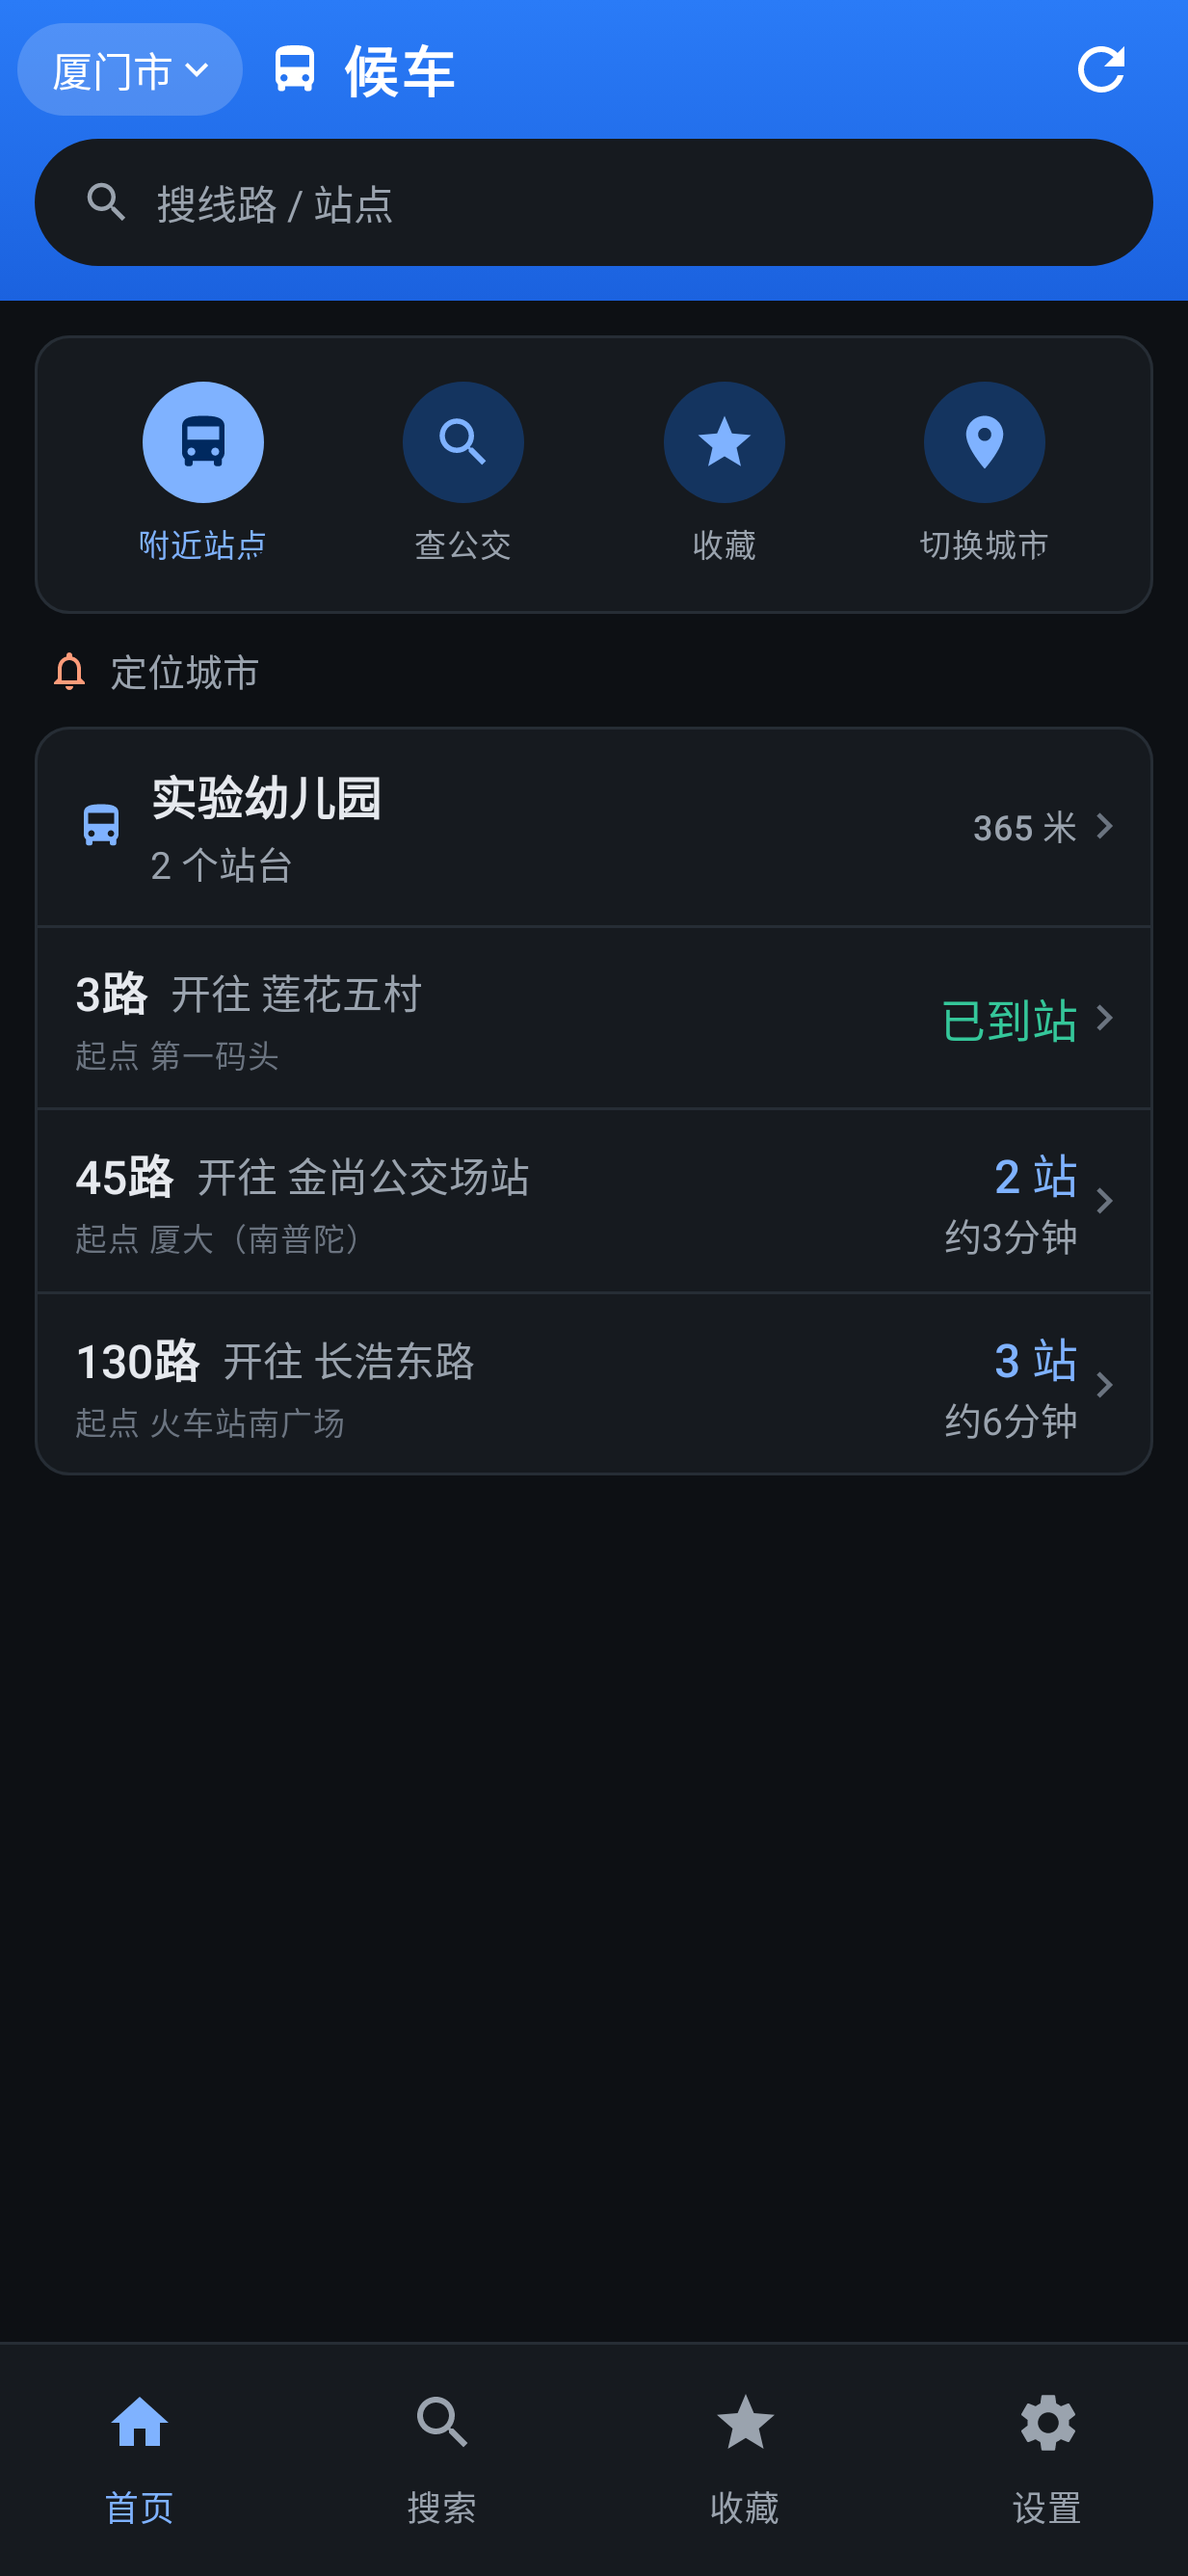
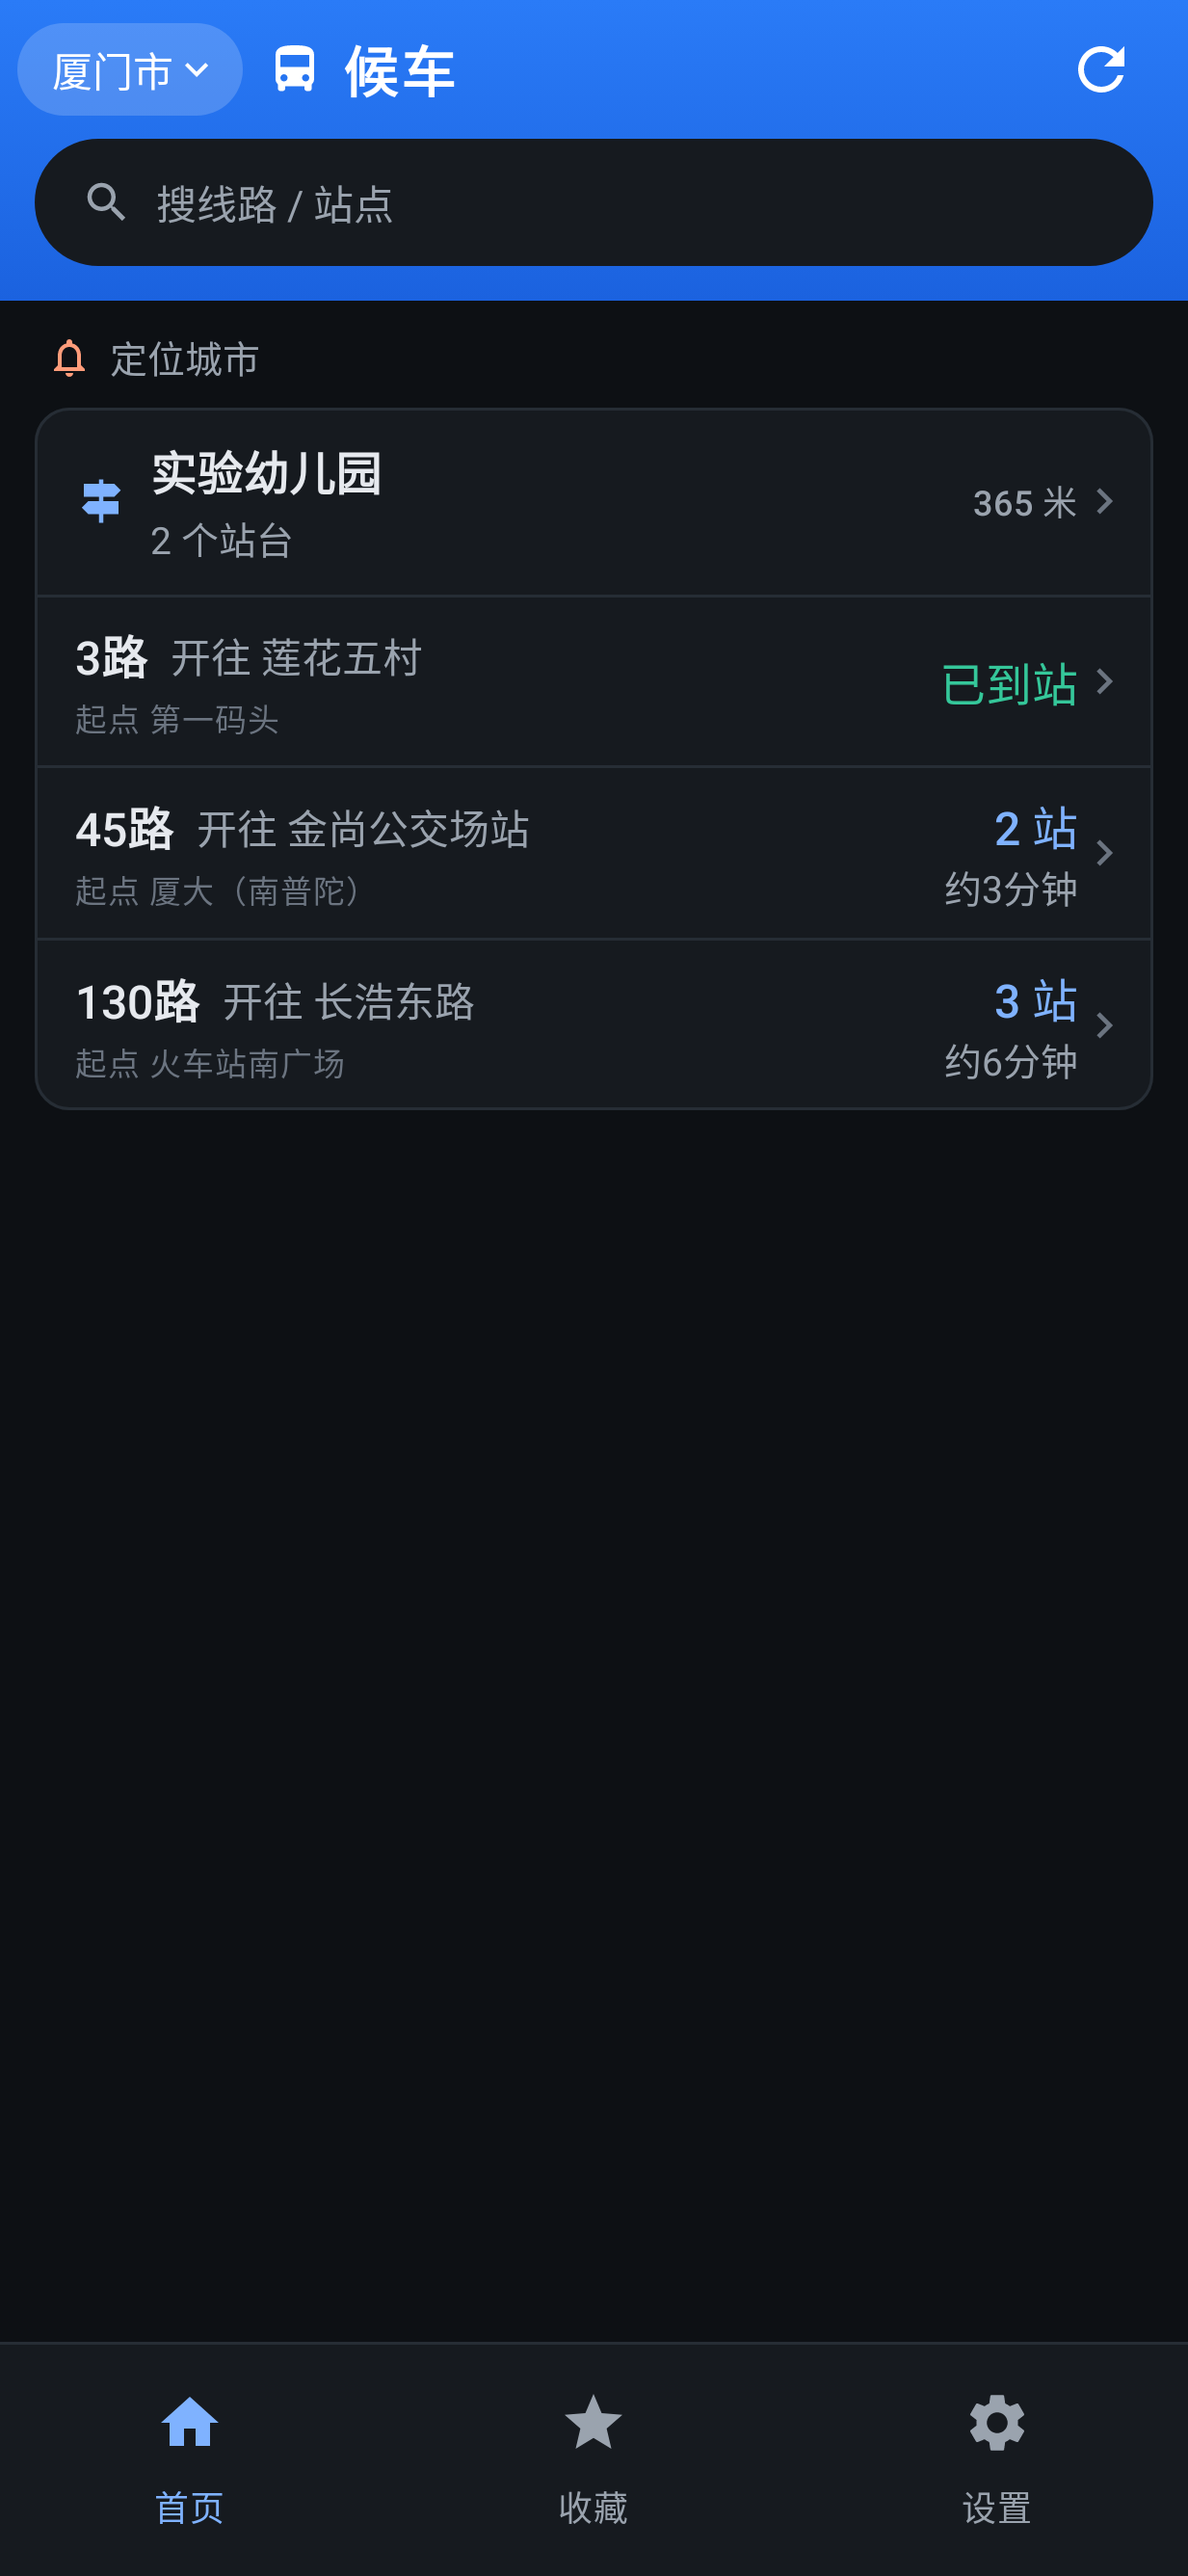
首页去掉重复入口，站点图按车辆位置区分到站与途中
- 删除宫格与底部搜索 tab，搜索只留顶栏一个入口
- 站点名前用站牌图标，公交图标只表示车辆
- 途中车辆画在两站之间，到站车辆画在站点正上方
- 收紧站点行与卡片间距

diff --git a/app/src/main/java/com/yll682/houche/ui/screens/home/HomeContent.kt b/app/src/main/java/com/yll682/houche/ui/screens/home/HomeContent.kt
@@ -12,7 +12,6 @@ import androidx.compose.ui.*
 import androidx.compose.ui.draw.clip
 import androidx.compose.ui.graphics.Brush
 import androidx.compose.ui.graphics.Color
-import androidx.compose.ui.graphics.vector.ImageVector
 import androidx.compose.ui.res.stringResource
 import androidx.compose.ui.text.font.FontWeight
 import androidx.compose.ui.text.style.TextOverflow
@@ -23,13 +22,13 @@ import com.yll682.houche.core.*
 import com.yll682.houche.ui.*
 import com.yll682.houche.ui.components.*
 import com.yll682.houche.ui.theme.Capsule
-import com.yll682.houche.ui.theme.FieldShape
 import com.yll682.houche.ui.theme.HeaderBottom
 import com.yll682.houche.ui.theme.HeaderTop
 
 /**
- * 首页版式参照厦门公交官方 App：蓝色渐变顶栏 + 快捷入口宫格 + 胶囊搜索框 + 站点卡片。
+ * 首页版式参照厦门公交官方 App：蓝色渐变顶栏 + 胶囊搜索框 + 站点卡片。
  * 到站信息按官方配色分级：即将到站橙红、有站数蓝色、等待发车灰色。
+ * 搜索只有一个入口（顶栏胶囊框），宫格与底部导航不重复承载同一动作。
  */
 @Composable fun HomeContent(
     state: UiState<HomeData>, city: City, granted: Boolean, segment: Int, selectSegment: (Int) -> Unit,
@@ -43,15 +42,14 @@ import com.yll682.houche.ui.theme.HeaderTop
         modifier = modifier,
         containerColor = MaterialTheme.colorScheme.background,
         topBar = { HomeHeader(city, cities, locate, search) },
-        bottomBar = { HomeBottomBar(segment, selectSegment, search, settings) }
+        bottomBar = { HomeBottomBar(segment, selectSegment, settings) }
     ) { padding ->
         PullToRefresh(loading, { locate() }) {
             LazyColumn(
                 Modifier.fillMaxSize().padding(padding),
-                contentPadding = PaddingValues(horizontal = 12.dp, vertical = 12.dp),
-                verticalArrangement = Arrangement.spacedBy(10.dp)
+                contentPadding = PaddingValues(start = 12.dp, end = 12.dp, top = 10.dp, bottom = 12.dp),
+                verticalArrangement = Arrangement.spacedBy(8.dp)
             ) {
-                item { QuickActions(segment, selectSegment, search, cities, locate) }
                 if (segment == 0) {
                     item {
                         Row(Modifier.fillMaxWidth().padding(horizontal = 4.dp), verticalAlignment = Alignment.CenterVertically) {
@@ -204,43 +202,8 @@ import com.yll682.houche.ui.theme.HeaderTop
     }
 }
 
-/** 快捷入口宫格，视觉对齐官方首页的四列图标区。 */
-@Composable private fun QuickActions(segment: Int, selectSegment: (Int) -> Unit, search: () -> Unit, cities: () -> Unit, locate: () -> Unit) {
-    CardSurface {
-        Row(Modifier.fillMaxWidth().padding(vertical = 14.dp), horizontalArrangement = Arrangement.SpaceEvenly) {
-            QuickAction(Icons.Default.DirectionsBus, stringResource(R.string.nearby), segment == 0) { selectSegment(0) }
-            QuickAction(Icons.Default.Search, stringResource(R.string.quick_search), false) { search() }
-            QuickAction(Icons.Default.Star, stringResource(R.string.favorites), segment == 1) { selectSegment(1) }
-            QuickAction(Icons.Default.Place, stringResource(R.string.switch_city), false) { cities() }
-        }
-    }
-}
-
-@Composable private fun QuickAction(icon: ImageVector, label: String, active: Boolean, onClick: () -> Unit) {
-    Column(
-        Modifier.widthIn(min = 64.dp).touch(label).clip(FieldShape).clickable(onClick = onClick).padding(vertical = 2.dp),
-        horizontalAlignment = Alignment.CenterHorizontally
-    ) {
-        Box(
-            Modifier.size(42.dp).clip(Capsule)
-                .background(if (active) MaterialTheme.colorScheme.primary else MaterialTheme.colorScheme.primaryContainer),
-            contentAlignment = Alignment.Center
-        ) {
-            Icon(icon, null, Modifier.size(22.dp), tint = if (active) MaterialTheme.colorScheme.onPrimary else MaterialTheme.colorScheme.primary)
-        }
-        Spacer(Modifier.height(6.dp))
-        Text(
-            label,
-            style = MaterialTheme.typography.labelSmall,
-            color = if (active) MaterialTheme.colorScheme.primary else MaterialTheme.colorScheme.onSurfaceVariant,
-            maxLines = 1,
-            overflow = TextOverflow.Ellipsis
-        )
-    }
-}
-
-/** 底部导航：首页 / 搜索 / 收藏 / 设置，平面样式不套选中胶囊。 */
-@Composable private fun HomeBottomBar(segment: Int, selectSegment: (Int) -> Unit, search: () -> Unit, settings: () -> Unit) {
+/** 底部导航：首页 / 收藏 / 设置，搜索由顶栏胶囊框承担，不在这里重复。 */
+@Composable private fun HomeBottomBar(segment: Int, selectSegment: (Int) -> Unit, settings: () -> Unit) {
     Column {
         Hairline()
         NavigationBar(containerColor = MaterialTheme.colorScheme.surface, tonalElevation = 0.dp) {
@@ -249,13 +212,6 @@ import com.yll682.houche.ui.theme.HeaderTop
                 onClick = { selectSegment(0) },
                 icon = { Icon(Icons.Default.Home, null) },
                 label = { Text(stringResource(R.string.home)) },
-                colors = flatNavColors()
-            )
-            NavigationBarItem(
-                selected = false,
-                onClick = search,
-                icon = { Icon(Icons.Default.Search, null) },
-                label = { Text(stringResource(R.string.search)) },
                 colors = flatNavColors()
             )
             NavigationBarItem(
@@ -310,10 +266,11 @@ import com.yll682.houche.ui.theme.HeaderTop
     val platforms = station.sameNum ?: station.platformNumbers.size
     CardSurface {
         Row(
-            Modifier.fillMaxWidth().touch(station.name).clickable(onClick = onOpen).padding(start = 14.dp, end = 8.dp, top = 12.dp, bottom = 12.dp),
+            Modifier.fillMaxWidth().touch(station.name).clickable(onClick = onOpen).padding(start = 14.dp, end = 8.dp, top = 10.dp, bottom = 10.dp),
             verticalAlignment = Alignment.CenterVertically
         ) {
-            Icon(Icons.Default.DirectionsBus, null, Modifier.size(18.dp), tint = MaterialTheme.colorScheme.primary)
+            // 站点是站牌，公交图标留给车辆本身，别在站名旁画一辆车。
+            Icon(Icons.Default.Signpost, null, Modifier.size(18.dp), tint = MaterialTheme.colorScheme.primary)
             Spacer(Modifier.width(8.dp))
             Column(Modifier.weight(1f)) {
                 Text(station.name, style = MaterialTheme.typography.titleMedium, fontWeight = FontWeight.SemiBold, maxLines = 2, overflow = TextOverflow.Ellipsis)
@@ -357,7 +314,7 @@ import com.yll682.houche.ui.theme.HeaderTop
 @Composable private fun StationLineRow(line: LineSummary, arrival: Arrival?, onClick: () -> Unit) {
     Row(
         Modifier.fillMaxWidth().touch(line.name).clickable(onClick = onClick)
-            .padding(start = 14.dp, end = 8.dp, top = 10.dp, bottom = 10.dp),
+            .padding(start = 14.dp, end = 8.dp, top = 8.dp, bottom = 8.dp),
         verticalAlignment = Alignment.CenterVertically
     ) {
         // 官方样式：第一行「线路号 + 开往终点」，第二行只补充起点，避免终点被说两遍。

diff --git a/app/src/main/java/com/yll682/houche/ui/screens/line/LineContent.kt b/app/src/main/java/com/yll682/houche/ui/screens/line/LineContent.kt
@@ -198,7 +198,8 @@ import com.yll682.houche.ui.theme.*
     val listState = rememberLazyListState()
     LaunchedEffect(route.name, route.direction) {
         val target = selected ?: vehicles.firstOrNull()?.order?.let { order -> route.stations.firstOrNull { it.order == order } }
-        val index = route.stations.indexOf(target).coerceAtLeast(0)
+        // 留一列余量：途中车辆要画在「两站之间」，贴左边缘会被裁掉半个图标。
+        val index = (route.stations.indexOf(target) - 1).coerceAtLeast(0)
         if (route.stations.isNotEmpty()) listState.scrollToItem(index)
     }
     LazyRow(state = listState, contentPadding = PaddingValues(horizontal = 8.dp)) {
@@ -208,12 +209,19 @@ import com.yll682.houche.ui.theme.*
             val primary = MaterialTheme.colorScheme.primary
             val passed = selected?.order?.let { (stop.order ?: it) < it } == true
             val description = if (buses.isEmpty()) stop.name else stringResource(R.string.stop_vehicles_accessibility, stop.name, buses.size)
-            Column(Modifier.width(64.dp).heightIn(min = 152.dp).clickable(role = Role.Button) { preview(stop) }
+            Column(Modifier.width(64.dp).heightIn(min = 136.dp).clickable(role = Role.Button) { preview(stop) }
                 .semantics(mergeDescendants = true) { contentDescription = description }, horizontalAlignment = Alignment.CenterHorizontally) {
-                Row(Modifier.height(26.dp).clearAndSetSemantics {}, verticalAlignment = Alignment.CenterVertically) {
+                // 车的位置就是状态：到站画在该站圆点正上方，途中向左偏移半格，落在两站之间。
+                Box(Modifier.height(24.dp).fillMaxWidth().clearAndSetSemantics {}) {
                     buses.firstOrNull()?.let { bus ->
-                        Icon(Icons.Default.DirectionsBus, null, Modifier.size(18.dp), tint = primary.copy(alpha = if (bus.positionState == "at-stop") 1f else .38f))
-                        if (buses.size > 1) Text(buses.size.toString(), style = MaterialTheme.typography.labelSmall, color = primary)
+                        val between = bus.positionState != "at-stop"
+                        Row(
+                            Modifier.align(Alignment.Center).offset(x = if (between) (-32).dp else 0.dp),
+                            verticalAlignment = Alignment.CenterVertically
+                        ) {
+                            Icon(Icons.Default.DirectionsBus, null, Modifier.size(18.dp), tint = primary)
+                            if (buses.size > 1) Text(buses.size.toString(), style = MaterialTheme.typography.labelSmall, color = primary)
+                        }
                     }
                 }
                 Text(stop.order?.toString().orEmpty(), Modifier.clearAndSetSemantics {}, style = MaterialTheme.typography.labelSmall, color = if (active) primary else MaterialTheme.colorScheme.outline)
@@ -243,14 +251,14 @@ import com.yll682.houche.ui.theme.*
         Box(Modifier.matchParentSize().clearAndSetSemantics {}) {
             Box(Modifier.width(40.dp).fillMaxHeight()) {
                 Box(Modifier.align(Alignment.Center).width(1.5.dp).fillMaxHeight().background(MaterialTheme.colorScheme.outlineVariant))
-                Box(Modifier.align(Alignment.TopCenter).padding(top = 10.dp).size(22.dp).clip(Capsule)
+                Box(Modifier.align(Alignment.TopCenter).padding(top = 8.dp).size(22.dp).clip(Capsule)
                     .background(if (active) MaterialTheme.colorScheme.primary else MaterialTheme.colorScheme.surface)
                     .border(1.5.dp, if (active) MaterialTheme.colorScheme.primary else MaterialTheme.colorScheme.outline, Capsule), contentAlignment = Alignment.Center) {
                     Text(stop.order?.toString().orEmpty(), style = MaterialTheme.typography.labelSmall, color = if (active) Color.White else MaterialTheme.colorScheme.outline)
                 }
             }
         }
-        Column(Modifier.fillMaxWidth().padding(start = 40.dp, top = 8.dp, bottom = 10.dp, end = 4.dp)) {
+        Column(Modifier.fillMaxWidth().padding(start = 40.dp, top = 6.dp, bottom = 8.dp, end = 4.dp)) {
             Text(stop.name, style = if (active) MaterialTheme.typography.titleMedium else MaterialTheme.typography.bodyLarge,
                 color = if (active) MaterialTheme.colorScheme.primary else if (passed) MaterialTheme.colorScheme.onSurfaceVariant else MaterialTheme.colorScheme.onSurface,
                 maxLines = 1, overflow = TextOverflow.Ellipsis)
